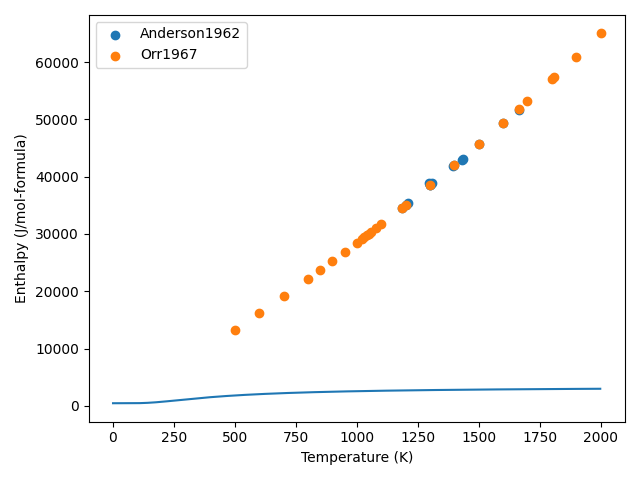
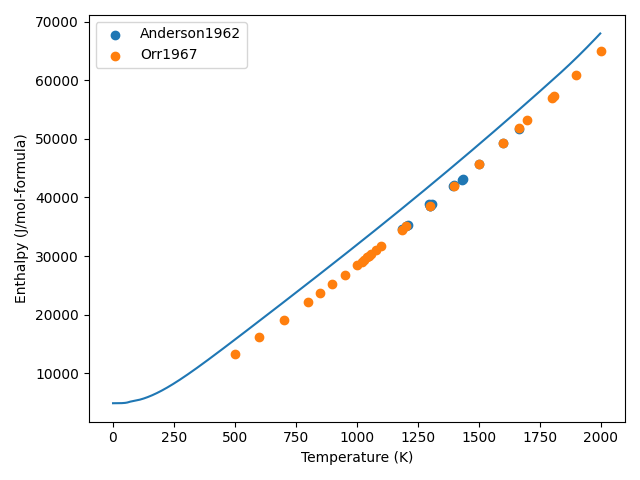
Fixed two-state Cp calculation

diff --git a/libreCalphad/models/segmented_regression.py b/libreCalphad/models/segmented_regression.py
@@ -68,8 +68,17 @@ def _twostate_Cp(T_arr, dE):
     def _calc_twostate_Cp(temp, dE):
         dH = -(T**2) * (dE / T).diff(T)
         chi = se.exp(-dE / (R * T)) / (1 + se.exp(-dE / R * T))
-        twostate_Cp = np.float64((chi * dH.diff(T) + dH * chi.diff(T)).subs(T, temp))
-        return twostate_Cp
+        twostate_Cp = (
+            chi * dH.diff(T)
+            + R
+            * (dH / (R * T)) ** 2
+            * se.exp(-dE / (R * T))
+            / (1 + se.exp(-dE / (R * T))) ** 2
+        )
+        # twostate_Cp = np.float64((chi * dH.diff(T) + dH * chi.diff(T)).subs(T, temp))
+        # twostate_gibbs = -R * T * se.log(1 + se.exp(-dE / (R * T)))
+        # twostate_Cp = twostate_gibbs.diff(T, T).subs(T, temp)
+        return np.float64(twostate_Cp.subs(T, temp))
 
     if isinstance(T_arr, (int, float)):
         ret_arr = _calc_twostate_Cp(T_arr, dE)
@@ -89,7 +98,7 @@ def _twostate_gibbs(T_arr, dE, ret_expr=False):
     def _calc_twostate_gibbs(temp, dE):
         return np.float64((-R * T * se.log(1 + se.exp(-dE / (R * T)))).subs(T, temp))
 
-    def _sympy_twostate_gibbs(T, dE):
+    def _sympy_twostate_gibbs(temp, dE):
         if isinstance(dE, list):
             dE = np.sum([dE[i] * v.T**i for i in range(len(dE))])
         return -v.R * v.T * se.log(1 + se.exp(-dE / (v.R * v.T)))

diff --git a/libreCalphad/databases/LC-steels_validation/FE/FE-test-fcc.py b/libreCalphad/databases/LC-steels_validation/FE/FE-test-fcc.py
@@ -28,12 +28,12 @@ cpm_res = calculate(
     dbf, components, phase, T=(0.5, 2000, 2), P=101325, N=1, output="heat_capacity"
 )
 ax.plot(cpm_res.T, cpm_res.heat_capacity.squeeze())
-# for result in search_results:
-#     ax.scatter(
-#         result["conditions"]["T"],
-#         np.array(result["values"]).squeeze(),
-#         label=result["reference"],
-#     )
+for result in search_results:
+    ax.scatter(
+        result["conditions"]["T"],
+        np.array(result["values"]).squeeze(),
+        label=result["reference"],
+    )
 ax.set_xlabel("Temperature (K)")
 ax.set_ylabel("Isobaric Heat Capacity (J/mol-formula-K)")
 ax.legend()
